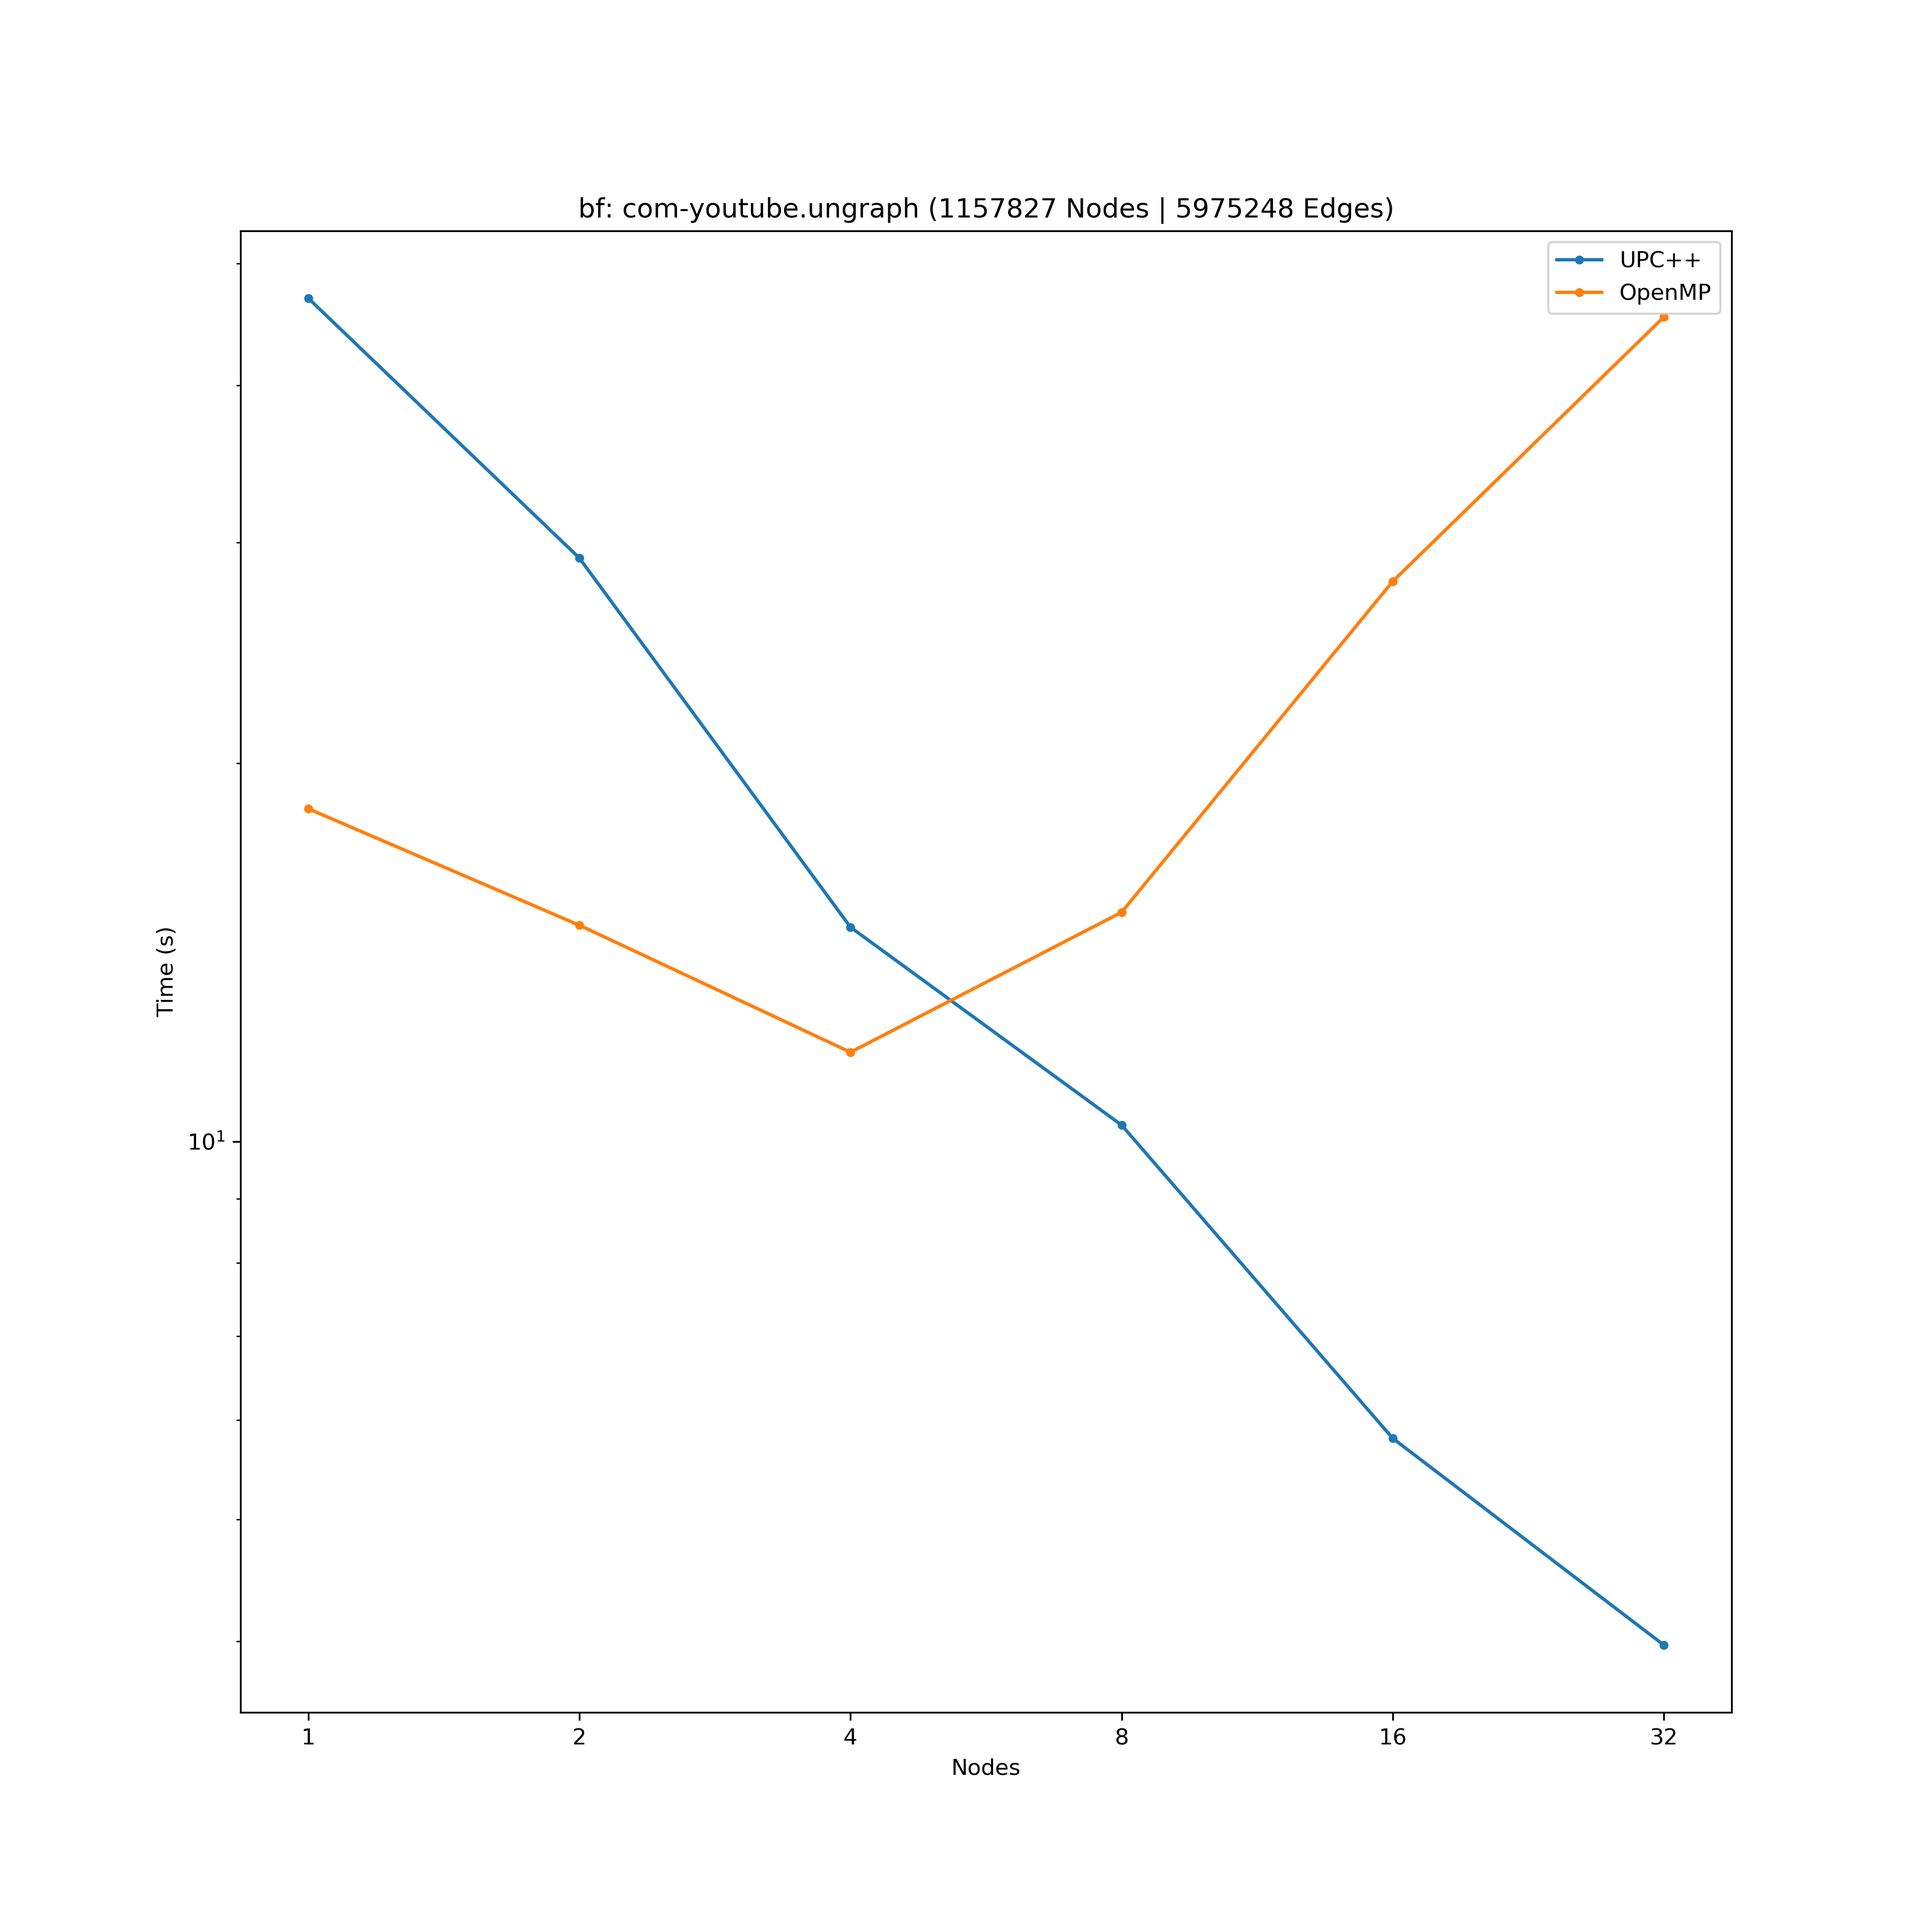
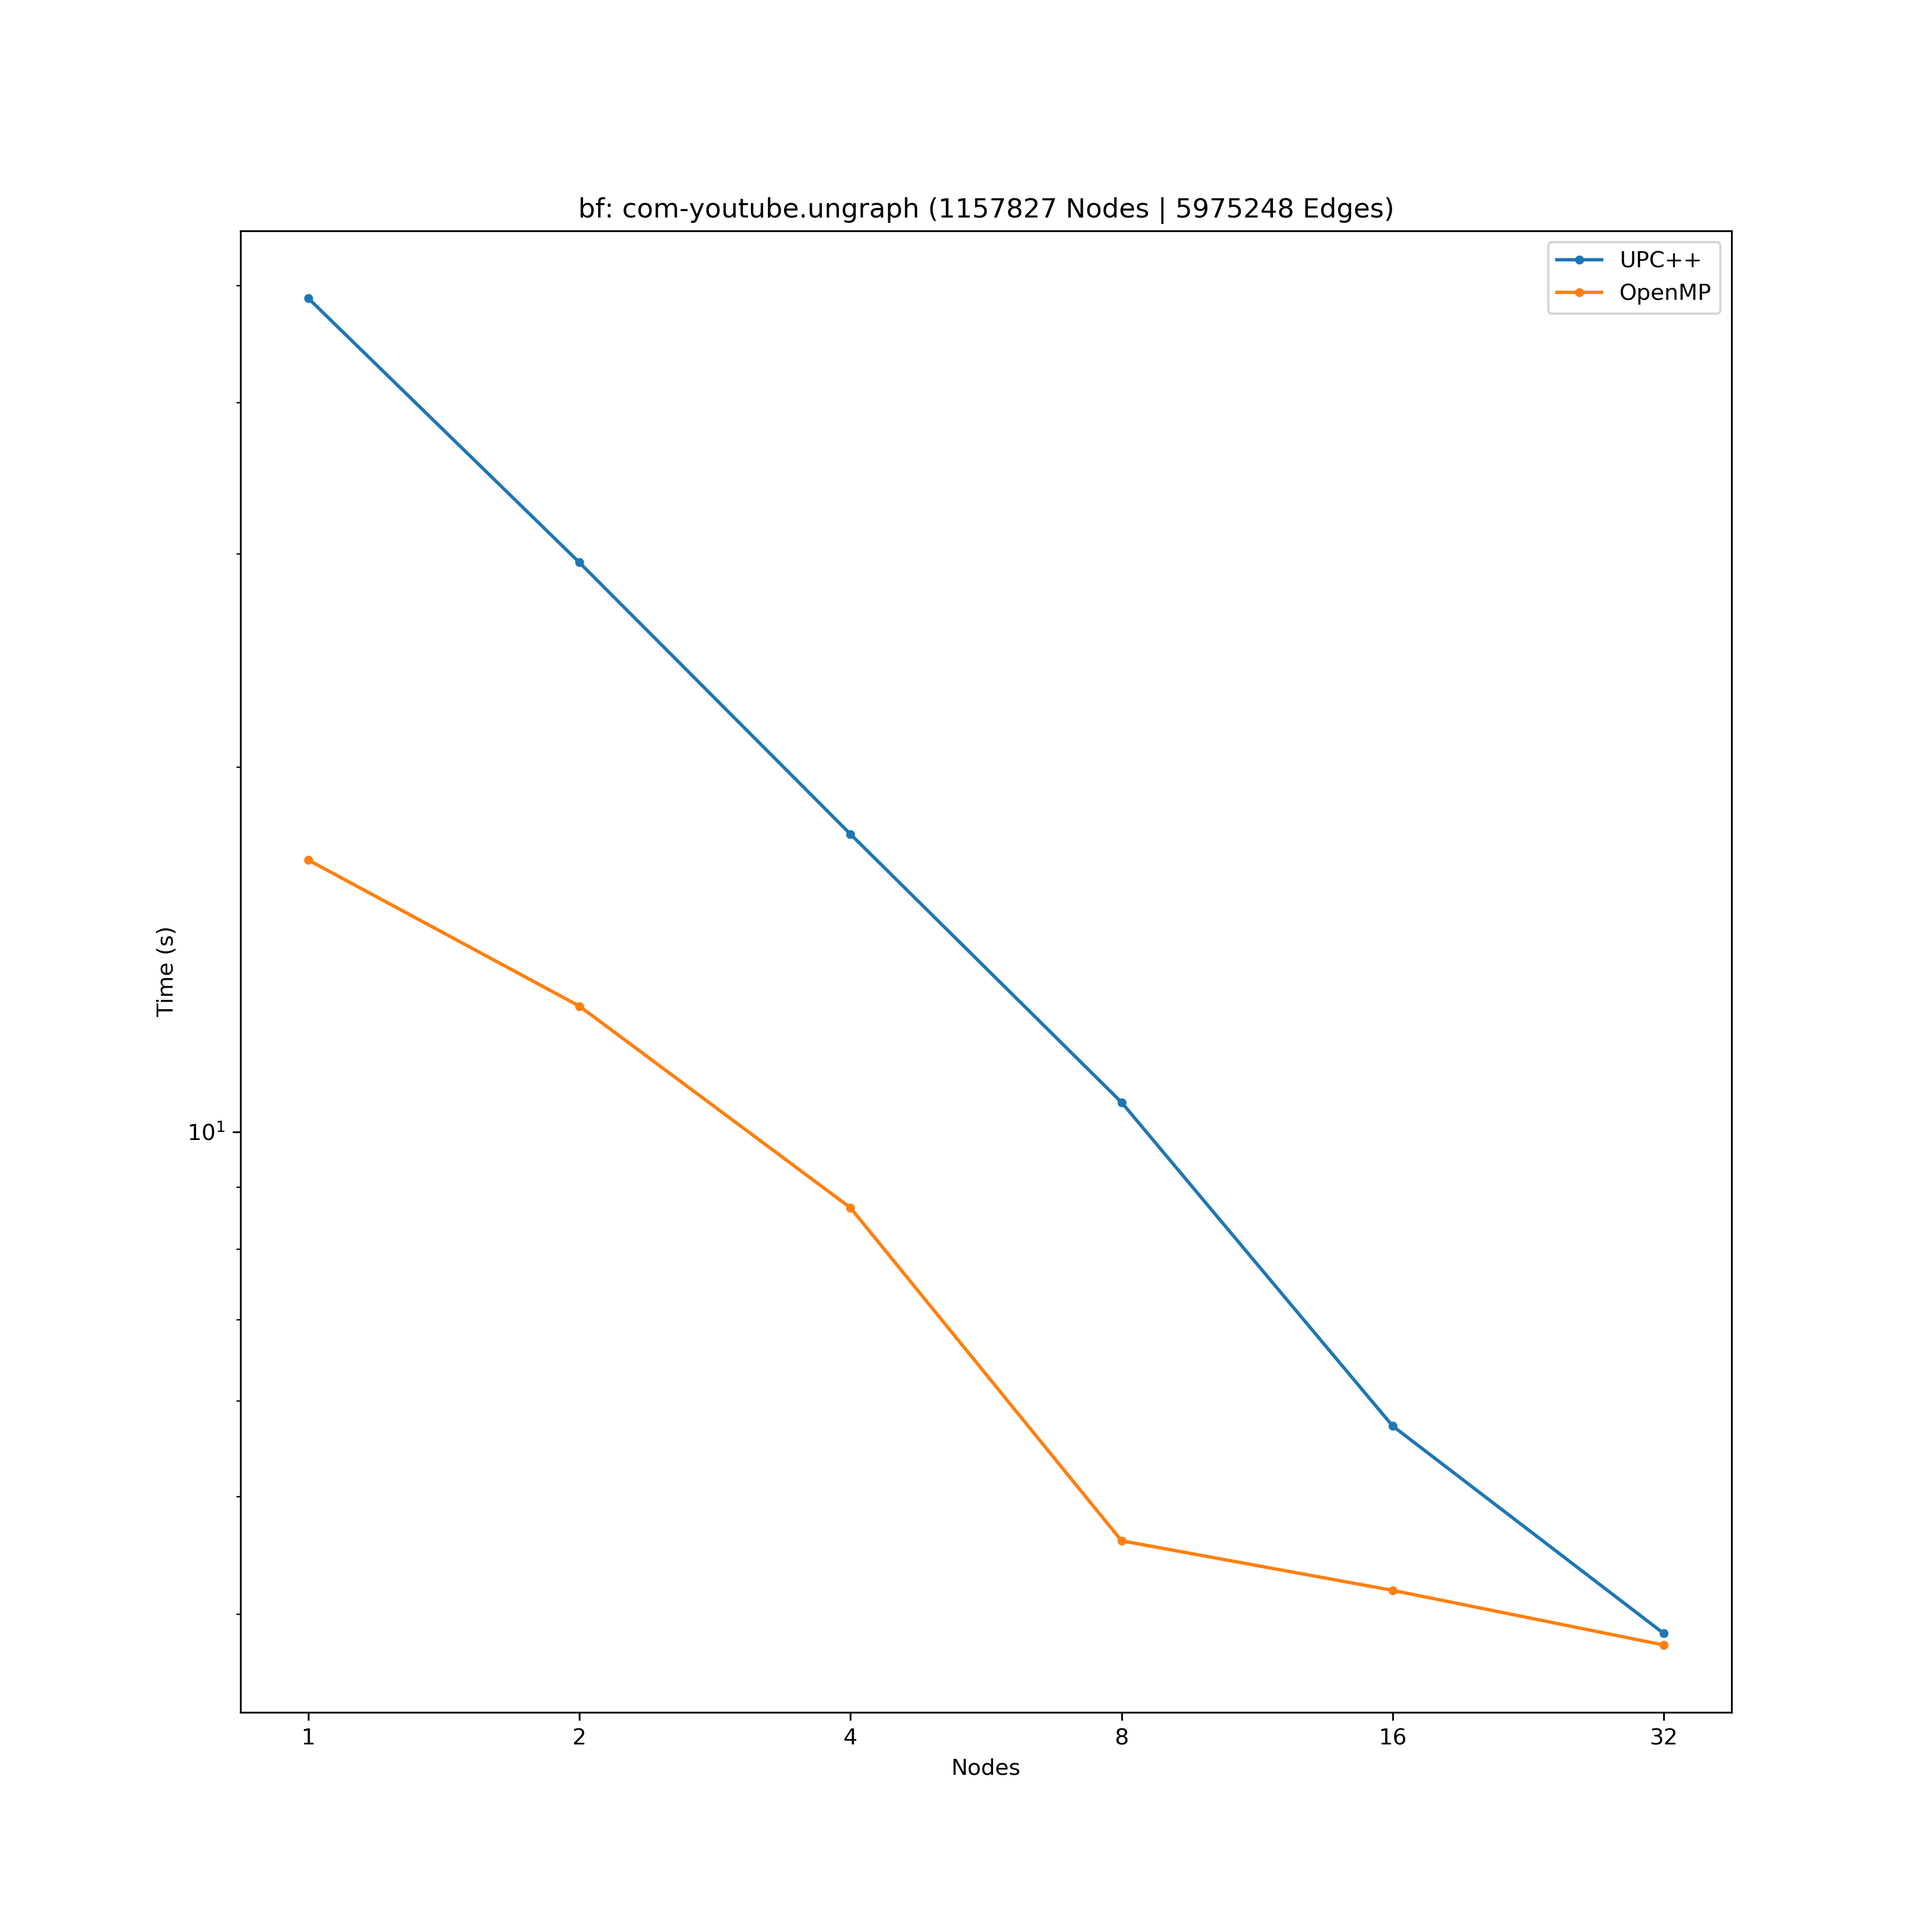
Some new stuff

diff --git a/src/openmp/bfs.cpp b/src/openmp/bfs.cpp
@@ -21,6 +21,43 @@ void print_vector(const vector<T> & v) {
     cout << endl;
 }
 
+void bfs_sparse(Graph& g, vector<int>& dist, vector<int>& frontier, vector<int>& next_frontier, int level) {
+    #pragma omp parallel for
+    for (int i = 0; i < frontier.size(); i++) {
+        int u = frontier[i];
+        vector<int> neighbors = g.out_neighbors(u);
+        #pragma omp parallel for
+        for (int j = 0; j < g.out_degree(u); j++) {
+            int v = neighbors[j];
+            if (dist[v] == INT_MAX) {
+                #pragma omp critical
+                next_frontier.push_back(v);
+
+                dist[v] = level;
+            }
+        }
+    }
+}
+
+void bfs_dense(Graph& g, vector<int>& dist, vector<int>& frontier, vector<int>& next_frontier, int level) {
+    #pragma omp parallel for
+    for (int u = 0; u < g.num_nodes(); u++) {
+        // ignore if distance is set already
+        if (dist[u] != INT_MAX) continue;
+        vector<int> neighbors = g.in_neighbors(u);
+        #pragma omp parallel for
+        for (int j = 0; j < g.in_degree(u); j++) {
+            int v = neighbors[j];
+            if (dist[v] < (dist[u]-1)) {
+                #pragma omp critical
+                next_frontier.push_back(u);
+
+                dist[u] = dist[v] + 1;
+            }
+        }
+    }
+}
+
 vector<int> bfs(Graph& g, int root) {
     vector<int> dist(g.num_nodes());
     # pragma omp parallel for
@@ -32,65 +69,15 @@ vector<int> bfs(Graph& g, int root) {
     vector<int> frontier, next_frontier;
     frontier.push_back(root);
     while (frontier.size() != 0) {
-        #pragma omp parallel for
-        for (int i = 0; i < frontier.size(); i++) {
-            int u = frontier[i];
-            vector<int> neighbors = g.out_neighbors(u);
-            #pragma omp parallel for
-            for (int j = 0; j < g.out_degree(u); j++) {
-                int v = neighbors[j];
-                if (dist[v] == INT_MAX) {
-                    #pragma omp critical
-                    next_frontier.push_back(v);
+        // for now use exclusively dense
+        bfs_dense(g, dist, frontier, next_frontier, level);
 
-                    dist[v] = level;
-                }
-            }
-        }
         frontier = next_frontier; 
         next_frontier.clear();
         level += 1; 
     }
 
     return dist;
-}
-
-bool verify(Graph& g, int root, vector<int> dist_in) {
-    vector<int> dist(g.num_nodes());
-
-    if (dist.size() != dist_in.size())
-        return false;
-
-    for (int i = 0; i < g.num_nodes(); i++)
-        dist[i] = INT_MAX; // set INF
-
-    dist[root] = 0;
-    int level = 1;
-    vector<int> frontier, next_frontier;
-    frontier.push_back(root);
-    while (frontier.size() != 0) {
-        for (int i = 0; i < frontier.size(); i++) {
-            int u = frontier[i];
-            vector<int> neighbors = g.out_neighbors(u);
-            for (int j = 0; j < g.out_degree(u); j++) {
-                int v = neighbors[j];
-                if (dist[v] == INT_MAX) {
-                    next_frontier.push_back(v);
-                    dist[v] = level;
-                }
-            }
-        }
-        frontier = next_frontier; 
-        next_frontier.clear();
-        level += 1; 
-    }
-
-    for (int i = 0; i < dist.size(); i++) {
-        if (dist[i] != dist_in[i]) {
-            return false;
-        }
-    }
-    return true;
 }
 
 int main(int argc, char *argv[]) {
@@ -109,12 +96,10 @@ int main(int argc, char *argv[]) {
         int root = rand() % g.num_nodes();
         auto time_before = chrono::system_clock::now();
         vector<int> scores = bfs(g, root);
-
         auto time_after = chrono::system_clock::now();
         chrono::duration<double> delta_time = time_after - time_before;
         current_time += delta_time.count();
     }
-    
     cout << current_time / num_iters << endl;
 
     /* if (!verify(g, root, scores)) {
